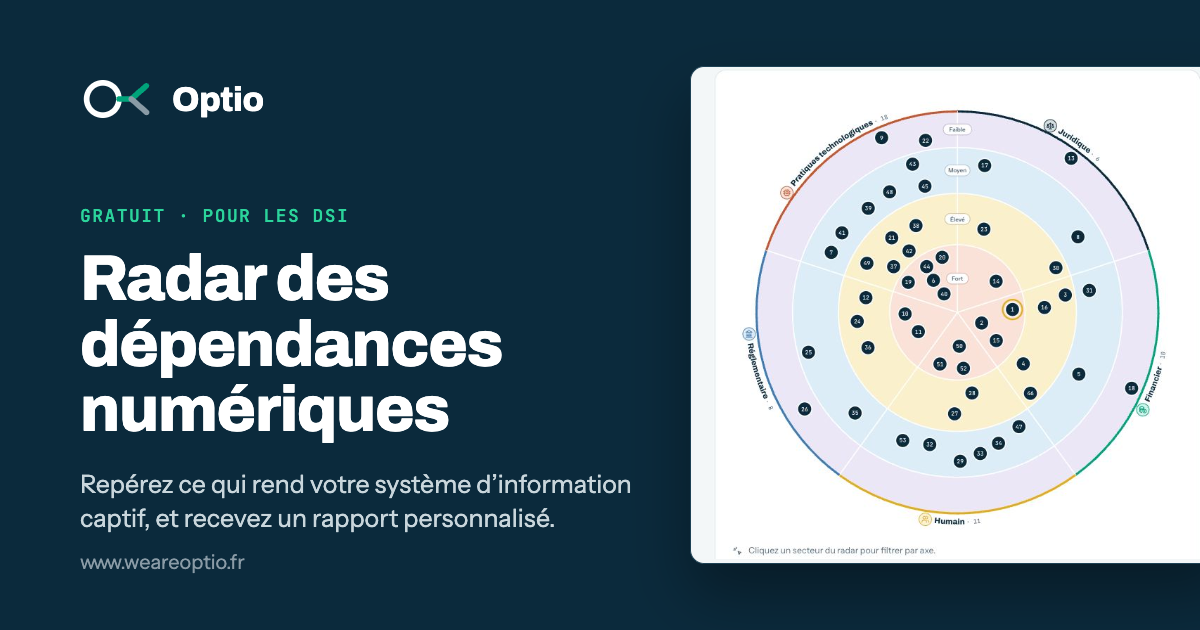
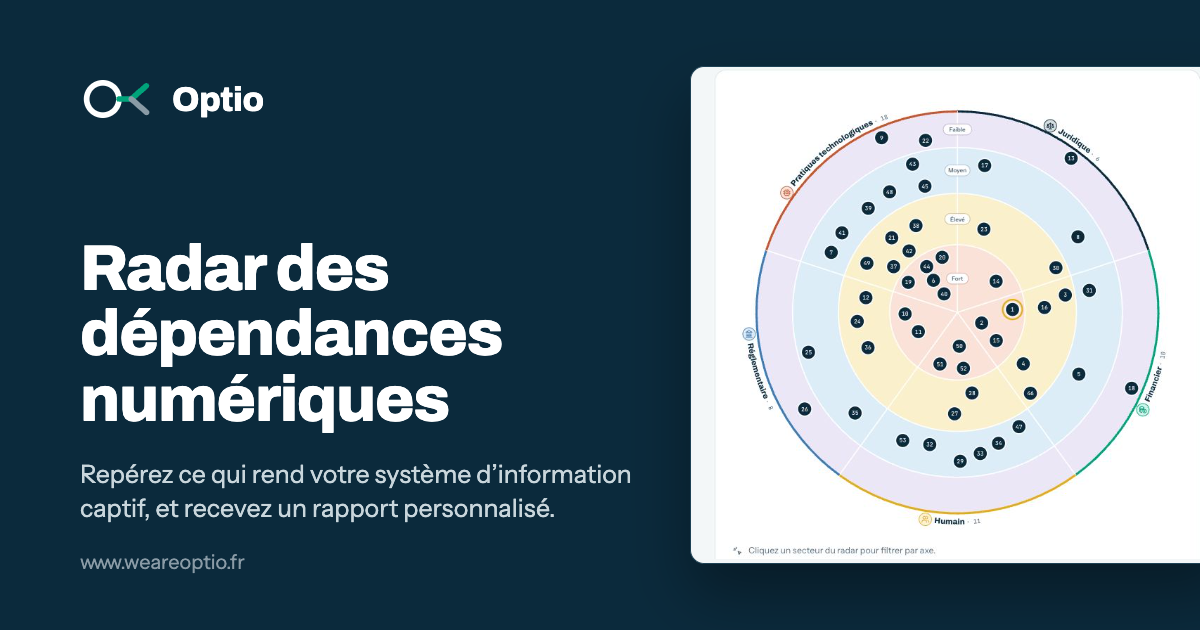
fix: points mineurs de la relecture de la refonte
- panneau du haut de page rempli en HTML statique (visible sans JavaScript)
- statistiques du tableau de bord calculées une seule fois (statsDe)
- montants du graphique TCD avec une décimale
- source du chiffre de 140 Md€ (Cigref et Asterès, mai 2026)
- check-cases.py contrôle aussi l’exemple de la spec (montants, retour, ratio)
- spec 0.2.1 : exemple recalé noté au journal des versions
- image de partage sans étiquette
- tests : navigation aux flèches, panneau sans JS, format des montants

Changed region(s): [[0.0617, 0.3921, 0.4317, 0.6937], [0.0617, 0.7238, 0.5242, 0.8444], [0.0617, 0.3317, 0.3083, 0.3619]]

diff --git a/index.html b/index.html
@@ -326,9 +326,9 @@ footer .haut{display:flex;flex-wrap:wrap;justify-content:space-between;gap:12px;
 <a class="btn btn-clair" href="#offres">Voir nos offres</a>
 </div>
 </div>
-<aside class="panneau" id="hero-panneau" aria-label="Portefeuille d’exemple"><p class="panneau-tete">Portefeuille d’exemple · tableau de bord Optio</p></aside>
+<aside class="panneau" id="hero-panneau" aria-label="Portefeuille d’exemple"><p class="panneau-tete">Portefeuille d’exemple · tableau de bord Optio</p><div class="ligne"><span>Fournisseurs critiques suivis</span><strong>6</strong></div><div class="ligne"><span>Indice moyen</span><strong>51 / 100</strong></div><div class="ligne"><span>Verrous actifs</span><strong>2</strong></div><div class="ligne"><span>TCD à 5 ans</span><strong>18,6 M€</strong></div><p class="echelle">Estimation pour une entreprise de 2&nbsp;000 à 20&nbsp;000 salariés</p></aside>
 </div>
-<p class="sources-hero">+76 % en cinq ans si la hausse anticipée par les DSI européens se confirme (Cigref et Asterès, mai 2026) · coûts VMware ×2 ou plus depuis le rachat par Broadcom (Gartner, mars 2025) · plus de 80 % des éditeurs passés à l’abonnement (Elée, septembre 2025) · 140 Md€ de surcoût annuel estimé pour les organisations européennes sur 2026-2030.</p>
+<p class="sources-hero">+76 % en cinq ans si la hausse anticipée par les DSI européens se confirme (Cigref et Asterès, mai 2026) · coûts VMware ×2 ou plus depuis le rachat par Broadcom (Gartner, mars 2025) · plus de 80 % des éditeurs passés à l’abonnement (Elée, septembre 2025) · 140 Md€ de surcoût annuel estimé pour les organisations européennes sur 2026-2030 (Cigref et Asterès, mai 2026).</p>
 </div>
 </section>
 
@@ -510,13 +510,14 @@ footer .haut{display:flex;flex-wrap:wrap;justify-content:space-between;gap:12px;
 
   /* Tableau de bord illustratif */
   var F=[{n:"Virtualisation",c:5,i:30,m:-4,tcd:5.0},{n:"Identité",c:5,i:38,m:-6,tcd:1.9},{n:"Collaboratif",c:4,i:46,m:2,tcd:2.5},{n:"Base de données",c:4,i:55,m:5,tcd:8.2},{n:"Réseau",c:3,i:63,m:9,tcd:0.6},{n:"Sauvegarde",c:3,i:71,m:14,tcd:0.4}];
-  var moy=Math.round(F.reduce(function(a,f){ return a+f.i; },0)/F.length), verrous=F.filter(function(f){ return f.m<0; }).length, tot=F.reduce(function(a,f){ return a+f.tcd; },0);
-  function kpisDe(F){ var moy=Math.round(F.reduce(function(a,f){ return a+f.i; },0)/F.length), verrous=F.filter(function(f){ return f.m<0; }).length, tot=F.reduce(function(a,f){ return a+f.tcd; },0);
-    return [["Fournisseurs critiques suivis",String(F.length)],["Indice moyen",moy+" / 100"],["Verrous actifs",String(verrous)],["TCD à 5 ans",tot.toLocaleString("fr-FR",{maximumFractionDigits:1})+"\u202fM€"]]; }
-  kpisDe(F).forEach(function(k){
+  function statsDe(F){ return { moy:Math.round(F.reduce(function(a,f){ return a+f.i; },0)/F.length), verrous:F.filter(function(f){ return f.m<0; }).length, tot:F.reduce(function(a,f){ return a+f.tcd; },0) }; }
+  var moy=statsDe(F).moy;
+  function kpisDe(F){ var st=statsDe(F);
+    return [["Fournisseurs critiques suivis",String(F.length)],["Indice moyen",st.moy+" / 100"],["Verrous actifs",String(st.verrous)],["TCD à 5 ans",st.tot.toLocaleString("fr-FR",{maximumFractionDigits:1})+"\u202fM€"]]; }
+  var lignes=$("hero-panneau").querySelectorAll(".ligne");
+  kpisDe(F).forEach(function(k,i){
     var d=document.createElement("div"); d.className="kpi"; d.innerHTML="<span>"+k[0]+"</span><strong>"+k[1]+"</strong>"; $("dash-kpis").appendChild(d);
-    var l=document.createElement("div"); l.className="ligne"; l.innerHTML="<span>"+k[0]+"</span><strong>"+k[1]+"</strong>"; $("hero-panneau").appendChild(l); });
-  (function(){ var e=document.createElement("p"); e.className="echelle"; e.innerHTML="Estimation pour une entreprise de 2&nbsp;000 à 20&nbsp;000 salariés"; $("hero-panneau").appendChild(e); })();
+    lignes[i].innerHTML="<span>"+k[0]+"</span><strong>"+k[1]+"</strong>"; });
   (function(){ var W=340,H=270,pl=26,pb=26,pt=8, g=svg(W,H,"Matrice : la virtualisation et l’identité sont critiques et peu réversibles");
     function X(i){ return pl+i/100*(W-pl-8); } function Y(c){ return H-pb-12-(c-2)/3.3*(H-pb-pt-40); }
     [[0,40,C.gris],[40,70,C.balise],[70,100,C.signal]].forEach(function(b){ g.appendChild(s("rect",{x:X(b[0]),y:pt,width:X(b[1])-X(b[0]),height:H-pb-pt,fill:b[2],"fill-opacity":"0.08"})); });
@@ -542,7 +543,7 @@ footer .haut{display:flex;flex-wrap:wrap;justify-content:space-between;gap:12px;
   (function(){ var W=340,H=210,lab=104,max=Math.max.apply(null,F.map(function(f){ return f.tcd; })), g=svg(W,H,"Coût total de la dépendance à cinq ans par fournisseur");
     F.forEach(function(f,k){ var y=10+k*32, w=f.tcd/max*(W-lab-56); g.appendChild(s("text",{x:lab-6,y:y+14,"text-anchor":"end","font-size":"11",fill:C.encre},f.n));
       g.appendChild(s("rect",{x:lab,y:y+2,width:w,height:16,rx:3,fill:C.encre,"fill-opacity":"0.75"}));
-      g.appendChild(s("text",{x:lab+w+4,y:y+14,"font-size":"10.5",fill:C.t3},f.tcd.toLocaleString("fr-FR")+"\u202fM€")); });
+      g.appendChild(s("text",{x:lab+w+4,y:y+14,"font-size":"10.5",fill:C.t3},f.tcd.toLocaleString("fr-FR",{minimumFractionDigits:1,maximumFractionDigits:1})+"\u202fM€")); });
     $("dash-tcd").appendChild(g); })();
 
   /* Tally : chargé seulement après un clic */

diff --git a/scripts/check-cases.py b/scripts/check-cases.py
@@ -15,9 +15,23 @@ def tcd_spec(C0, h, hN, mE, I, K, P, M, T, A, D=6, R=6, rho=0.8, iota=0.5, H=5):
     sortir = P + sum(contrat(t, h) + M / T + I / 12 + K / 12 + (A / 12 if t >= T - D else 0) if t < T
                      else A / 12 + (1 - iota) * I / 12 + (1 - rho) * K / 12 + (contrat(t, h) if t < F else 0) for t in mois)
     return dict(rester=rester, renegocier=renegocier, sortir=sortir)
+
+
+def retour_et_ratio(C0, h, hN, mE, I, K, P, M, T, A, D=6, R=6, rho=0.8, iota=0.5, H=5):
+    """Délai de retour de la sortie (premier mois où le cumul passe sous celui du statu quo) et ratio (P + M + D × A/12) ÷ C0."""
+    contrat = lambda t, hausse: C0 * (1 + hausse if t >= mE else 1) / 12
+    F = T if T <= mE else max(T, mE + R)
+    cs = c0 = 0
+    for t in range(H * 12):
+        c0 += contrat(t, h) + I / 12 + K / 12
+        cs += (P if t == 0 else 0) + (contrat(t, h) + M / T + I / 12 + K / 12 + (A / 12 if t >= T - D else 0) if t < T
+              else A / 12 + (1 - iota) * I / 12 + (1 - rho) * K / 12 + (contrat(t, h) if t < F else 0))
+        if cs < c0: return t + 1, (P + M + D * A / 12) / C0
+    return None, (P + M + D * A / 12) / C0
 # Cas 1 : 600 k€/an, +60 % à l'échéance (mois 14), 18 mois pour partir ; exploitation 45 k€ et risque 87 k€ par an ;
 # préparation 60 k€, migration 240 k€, alternative 360 k€/an, double exploitation et réengagement de 6 mois (spec § 3.9)
-C[1] = tcd_spec(0.6, .6, .15, 14, 0.045, 0.087, 0.06, 0.24, 18, 0.36)
+CAS1 = (0.6, .6, .15, 14, 0.045, 0.087, 0.06, 0.24, 18, 0.36)
+C[1] = tcd_spec(*CAS1)
 # Cas 2 : échéance imposée à la fin de l'année 2 ; alternative dès l'année 1
 ex2 = 5 * (0.06 + 0.02)
 C[2] = dict(cloud=0.3 * 2 + 0.42 * 3 + 0.25 + ex2, alternative=0.4 + 0.18 * 5 + ex2)
@@ -35,7 +49,13 @@ C[4] = dict(rester=rester4,
 if __name__ == "__main__":
     for k, v in C.items(): print(k, {a: round(b, 2) for a, b in v.items()})
     txt = open("index.html", encoding="utf-8").read()
-    err = [f"Cas {k} : {a} = {f(b)} M€ absent de index.html" for k, v in C.items() for a, b in v.items() if f"{f(b)} M€" not in txt and f"{f(b)} M€" not in txt]
+    err = [f"Cas {k} : {a} = {f(b)} M€ absent de index.html" for k, v in C.items() for a, b in v.items() if f"{f(b)}\u202fM€" not in txt and f"{f(b)} M€" not in txt]
     gains = {1: C[1]["rester"] - C[1]["sortir"], 2: C[2]["cloud"] - C[2]["alternative"], 3: C[3]["rester"] - C[3]["migrer"], 4: C[4]["rester"] - C[4]["partielle"]}
     err += [f"Cas {k} : gain {f(g)} M€ absent de index.html" for k, g in gains.items() if not re.search(f(g) + r"[\u202f ]M€ économisés", txt)]
-    print("\n".join(err) if err else "OK : montants des cas cohérents avec la page"); sys.exit(1 if err else 0)
+    # le même cas sert d’exemple à la spec (§ 3.9)
+    spec = open("docs/spec-tcd-et-indice-reversibilite.md", encoding="utf-8").read()
+    mois, ratio = retour_et_ratio(*CAS1)
+    attendus = [f"| S0, rester sous contrainte | {f(C[1]['rester'])} M€ |", f"| S1, renégocier avec une alternative prouvée | {f(C[1]['renegocier'])} M€ |",
+                f"| S3, sortir | {f(C[1]['sortir'])} M€ |", f"gagner {f(gains[1])} M€", f"au bout de {mois} mois", f"soit {f(ratio).rstrip('0').rstrip(',')}."]
+    err += [f"Spec § 3.9 : « {a} » absent" for a in attendus if a not in spec]
+    print("\n".join(err) if err else "OK : montants des cas cohérents avec la page et la spec"); sys.exit(1 if err else 0)

diff --git a/docs/spec-tcd-et-indice-reversibilite.md b/docs/spec-tcd-et-indice-reversibilite.md
@@ -1,6 +1,6 @@
 # Coût total de la dépendance et indice de réversibilité
 
-*Spécification Optio (marque de Stratwise), version 0.2, proposition du 26 novembre 2026*
+*Spécification Optio (marque de Stratwise), version 0.2.1, proposition du 27 novembre 2026*
 
 ---
 
@@ -369,6 +369,7 @@ Il s’enrichit des retours de missions, des entretiens avec des DSI et des cont
 |---|---|---|
 | 0.1 | Octobre 2026 | Sept axes, échelle 0-1-3-5, plafond à 69 sans preuve, TCD en trois composantes et quatre scénarios |
 | 0.2 | Novembre 2026 | Neuf axes en quatre familles (les compétences deviennent un axe standard, le contrat et le cadre juridique sont séparés) ; validité de la preuve limitée à 12 mois ; dimensions qualitatives du TCD ; repères de coûts de changement ; scénario S2 « réduire ou hybrider » ; double exploitation, réengagement en cas de verrou actif, indexation et actualisation ajoutés au modèle de calcul |
+| 0.2.1 | Novembre 2026 | Exemple de calcul (§ 3.9) recalé à l’échelle d’une entreprise de 2 000 à 20 000 salariés ; référentiel de l’indice inchangé |
 
 ---
 
